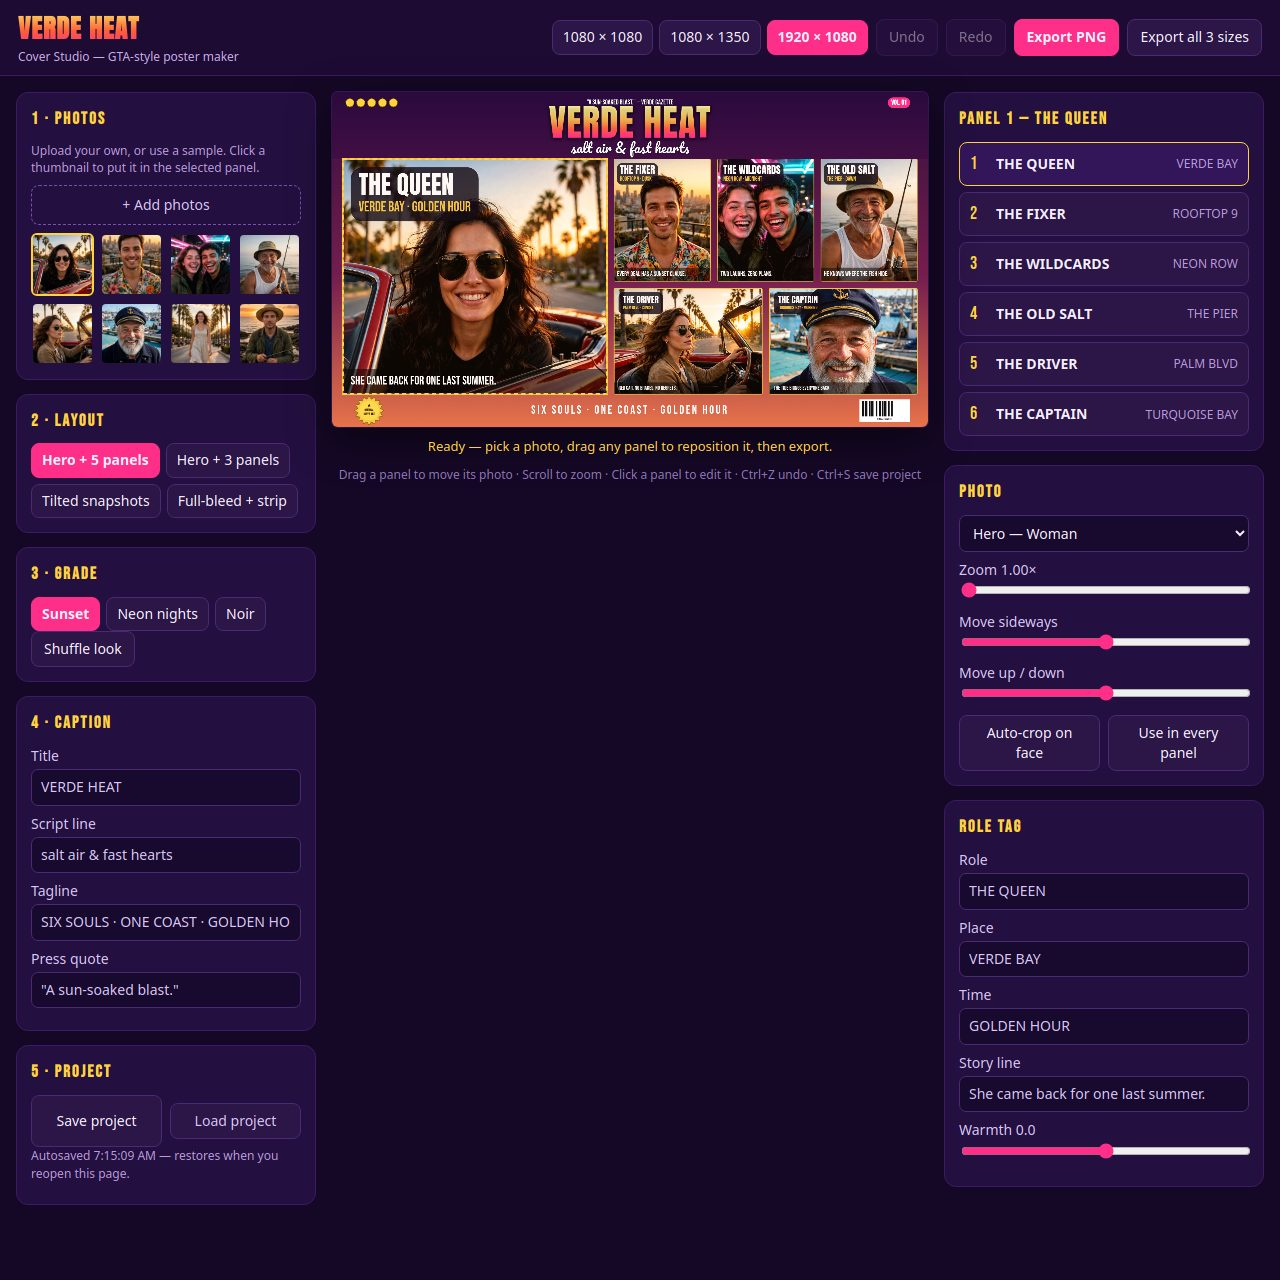
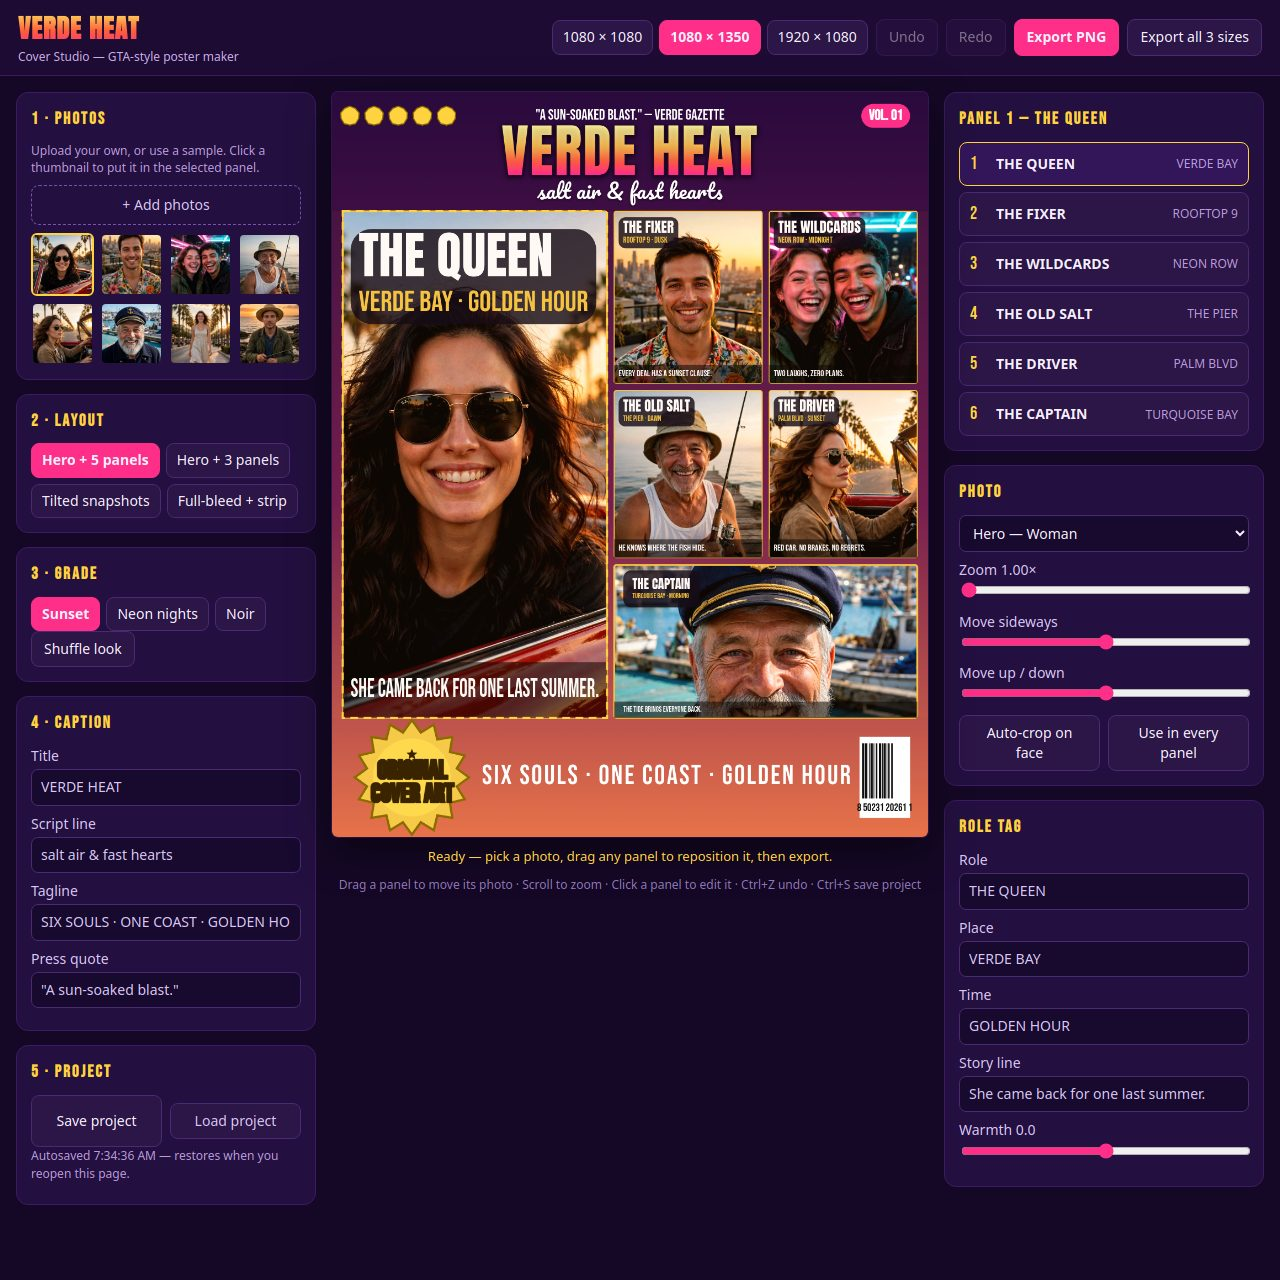
Fix round r4: curated face points, captain crop, readable seal
- Face crop: hand-measured true face centres for hero (0.52,0.43),
  pier (0.50,0.42) and boulevard (0.51,0.29) as CURATED points; the
  autocrop button now prefers the curated point for shipped samples
  (uploads still use the skin-tone finder). All 8 faces whole in
  portrait and landscape.
- Captain: curated focus 0.45 -> 0.40, the best compromise the
  portrait panel allows (its window is only ~half the photo tall, so
  the whole cap and the whole mouth cannot both fit) — full face
  visible, least cap cut. Note: the brief said 'shift down', but the
  window is centred on the focus, so the focus must move UP in photo
  coordinates to include the cap.
- Seal: footer band 9.8% -> 16% of H, seal 0.44*bandH -> 0.48*bandH,
  lettering 0.34r -> 0.44r with the fit limit corrected to the true
  disc chord (1.6r) and stroked for weight; tagline shrinks to fit
  between seal and barcode. Seal text now reads ORIGINAL / COVER ART
  at 300px thumbnail in both orientations (~5.5px landscape,
  ~13px portrait, up from ~1.7px).

Changed region(s): [[0.25, 0.0, 0.75, 0.7188], [0.6875, 0.6875, 0.7188, 0.7188], [0.2812, 0.6875, 0.3125, 0.7188]]

diff --git a/app/src/render.js b/app/src/render.js
@@ -33,7 +33,7 @@ export function computePanels(W, H, layout) {
   const m = W * 0.018;
   const g = W * 0.012;
   const topH = H * (W > H ? 0.2 : 0.16);
-  const bottomH = H * 0.098;
+  const bottomH = H * 0.16;
   const ax = m;
   const ay = topH;
   const aw = W - 2 * m;
@@ -276,7 +276,11 @@ function drawSeal(ctx, cx, cy, r) {
   ctx.strokeStyle = '#8a6d00';
   ctx.lineWidth = Math.max(1, r * 0.04);
   ctx.stroke();
-  // Inner disc + wording.
+  // Inner disc + wording. The wording is sized to the disc and stroked
+  // so it stays readable when the cover is viewed as a small thumbnail.
+  // The fit limit is the disc chord at the text rows' outer edges
+  // (~1.6r), not the narrow chord the old 1.24r assumed — the rows sit
+  // near the disc centre, where the disc is almost at full width.
   ctx.beginPath();
   ctx.arc(0, 0, r * 0.68, 0, Math.PI * 2);
   ctx.fillStyle = '#ffd94d';
@@ -284,11 +288,23 @@ function drawSeal(ctx, cx, cy, r) {
   ctx.fillStyle = '#3a2400';
   ctx.textAlign = 'center';
   ctx.textBaseline = 'middle';
-  starPath(ctx, 0, -r * 0.36, r * 0.14, r * 0.06);
+  starPath(ctx, 0, -r * 0.4, r * 0.1, r * 0.045);
   ctx.fill();
-  ctx.font = `bold ${Math.round(r * 0.24)}px 'Bebas Neue', sans-serif`;
-  ctx.fillText('ORIGINAL', 0, -r * 0.02);
-  ctx.fillText('COVER ART', 0, r * 0.26);
+  let sealFont = Math.round(r * 0.44);
+  ctx.font = `bold ${sealFont}px 'Bebas Neue', sans-serif`;
+  const widest = Math.max(ctx.measureText('ORIGINAL').width, ctx.measureText('COVER ART').width);
+  const discChord = r * 1.6;
+  if (widest > discChord) {
+    sealFont = Math.max(8, Math.floor(sealFont * (discChord / widest)));
+    ctx.font = `bold ${sealFont}px 'Bebas Neue', sans-serif`;
+  }
+  ctx.lineWidth = Math.max(1, sealFont * 0.07);
+  ctx.strokeStyle = '#3a2400';
+  ctx.lineJoin = 'round';
+  ctx.strokeText('ORIGINAL', 0, -r * 0.08);
+  ctx.strokeText('COVER ART', 0, r * 0.32);
+  ctx.fillText('ORIGINAL', 0, -r * 0.08);
+  ctx.fillText('COVER ART', 0, r * 0.32);
   ctx.restore();
 }
 
@@ -484,15 +500,26 @@ export function drawCover(ctx, W, H, state, photos) {
 
   // Bottom band: gold seal, tagline, barcode.
   const bandY = H - bottomH;
-  const sealR = bottomH * 0.44;
+  const sealR = bottomH * 0.48;
   drawSeal(ctx, W * 0.03 + sealR + W * 0.008, bandY + bottomH / 2, sealR);
+  // Tagline, shrunk to fit between the seal and the barcode and centred
+  // in that space (the taller band would otherwise overflow it).
+  const tagLeft = W * 0.03 + sealR * 2 + W * 0.008 + W * 0.02;
+  const tagRight = W - W * 0.03 - W * 0.085 - W * 0.01;
+  const tagSpace = Math.max(100, tagRight - tagLeft);
+  let tagSize = Math.max(12, Math.round(bottomH * 0.36));
   ctx.save();
-  ctx.font = `${Math.max(12, Math.round(bottomH * 0.36))}px 'Bebas Neue', sans-serif`;
-  ctx.fillStyle = '#ffffff';
   ctx.textAlign = 'center';
   ctx.textBaseline = 'middle';
+  ctx.fillStyle = '#ffffff';
   try { ctx.letterSpacing = `${(W * 0.003).toFixed(1)}px`; } catch { /* older canvas */ }
-  ctx.fillText(state.tagline, W / 2, bandY + bottomH / 2);
+  for (let tries = 0; tries < 4; tries++) {
+    ctx.font = `${tagSize}px 'Bebas Neue', sans-serif`;
+    if (ctx.measureText(state.tagline).width <= tagSpace) break;
+    tagSize = Math.max(12, Math.floor(tagSize * (tagSpace / ctx.measureText(state.tagline).width)));
+  }
+  ctx.font = `${tagSize}px 'Bebas Neue', sans-serif`;
+  ctx.fillText(state.tagline, (tagLeft + tagRight) / 2, bandY + bottomH / 2);
   ctx.restore();
   drawBarcode(ctx, W - W * 0.03 - W * 0.085, bandY + bottomH * 0.16, W * 0.085, bottomH * 0.68);
 

diff --git a/app/src/editor.js b/app/src/editor.js
@@ -26,13 +26,19 @@ const SAMPLES = [
 // hats and bare arms can out-score a small face, so the shipped photos
 // use these hand-measured points and the finder only runs on uploads.
 const CURATED = {
-  'hero.jpg': { x: 0.52, y: 0.44 },
+  'hero.jpg': { x: 0.52, y: 0.43 },
   'rooftop.jpg': { x: 0.5, y: 0.35 },
   'friends.jpg': { x: 0.55, y: 0.41 },
-  'pier.jpg': { x: 0.5, y: 0.4 },
+  'pier.jpg': { x: 0.5, y: 0.42 },
   'driver.jpg': { x: 0.47, y: 0.4 },
-  'captain.jpg': { x: 0.5, y: 0.45 },
-  'boulevard.jpg': { x: 0.5, y: 0.31 },
+  // Raised above the face centre: the wide panels crop a narrow band, and
+  // the cap is cut off at the face point. 0.40 is the best compromise the
+  // portrait panel allows — its window is only ~half the photo tall, so
+  // the whole cap and the whole mouth cannot both fit; this keeps the
+  // full face visible while cutting the least cap (0.33 shows the cap
+  // but hides the mouth behind the caption band).
+  'captain.jpg': { x: 0.5, y: 0.4 },
+  'boulevard.jpg': { x: 0.51, y: 0.29 },
   'angler.jpg': { x: 0.5, y: 0.33 },
 };
 
@@ -550,7 +556,10 @@ $('autocrop').addEventListener('click', () => {
   const panel = state.panels[state.selected];
   const photo = state.photos[panel.photoIdx];
   if (!photo) return;
-  const focus = findFaceCenter(photo.img);
+  // Shipped samples use their hand-measured point: the skin finder misses
+  // the face on hero, pier and boulevard, so auto-crop must not trust it
+  // there. Uploads still go through the finder (null = no face found).
+  const focus = CURATED[(photo.file || '').split('/').pop()] || findFaceCenter(photo.img);
   if (focus) {
     panel.focus = focus;
     panel.ox = 0;
